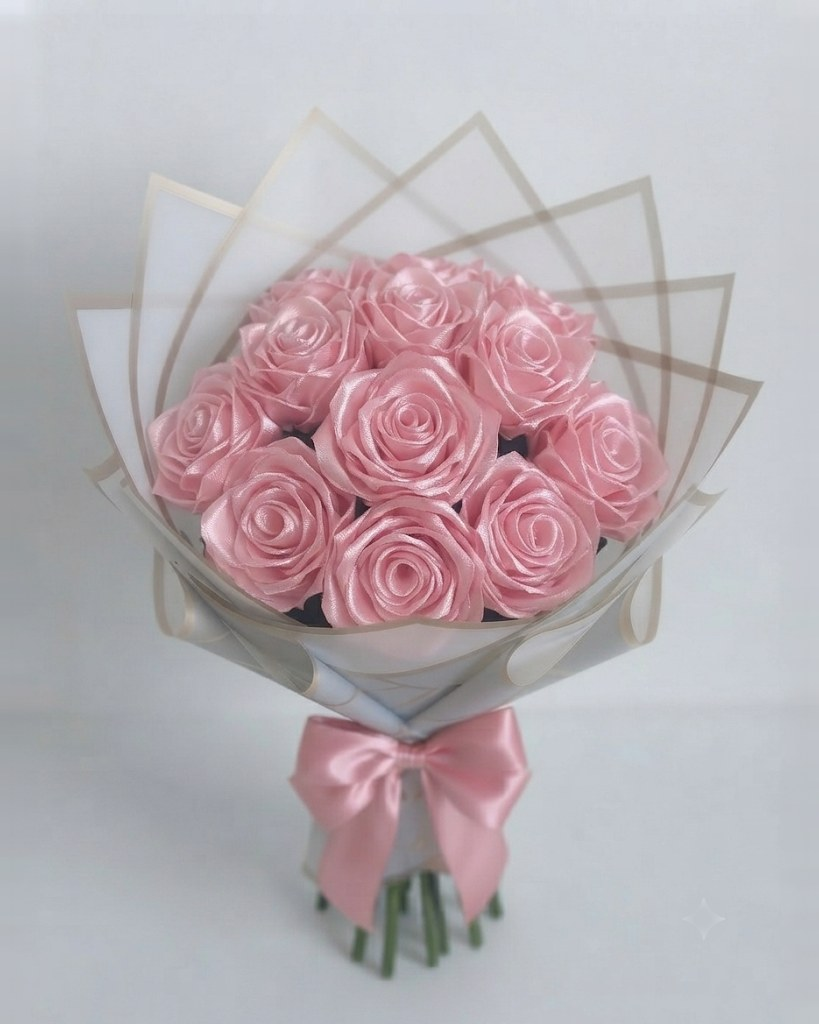
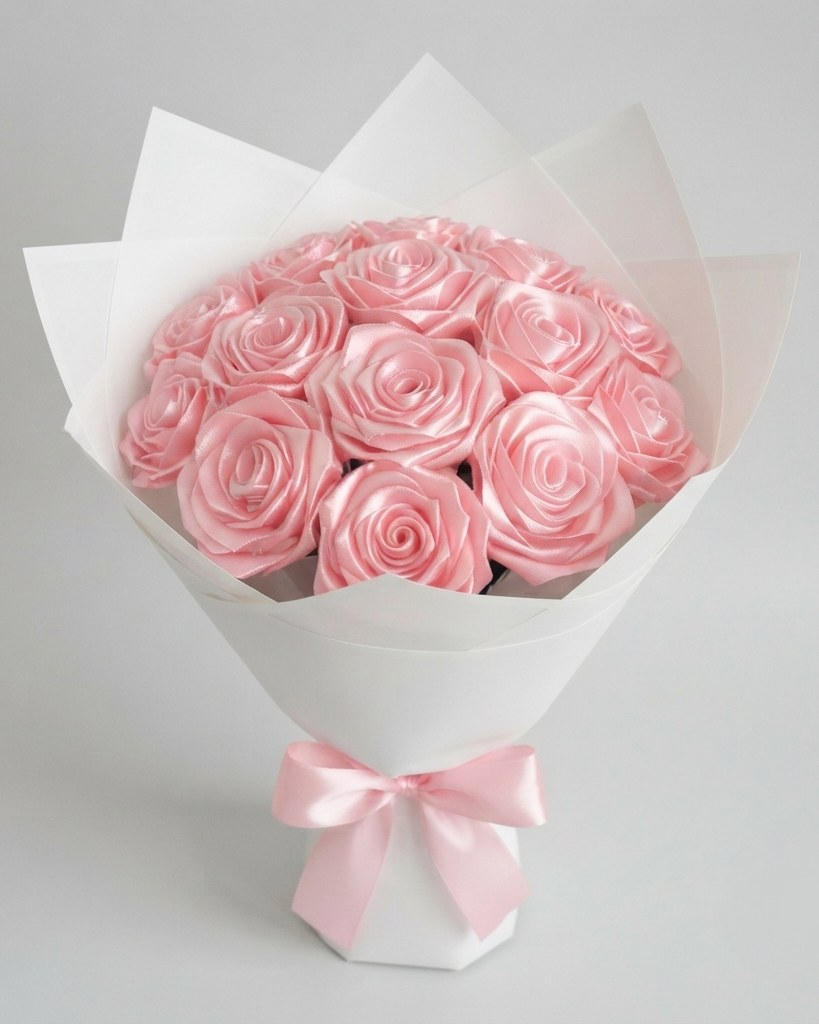
Pink 13-rose photo in white wrap; earlier one moves to 10
Claude-Session: https://claude.ai/code/session_01GvQGKs82VGAi27JdspmeE6

diff --git a/about.html b/about.html
@@ -6,7 +6,7 @@
 <link rel="preconnect" href="https://fonts.googleapis.com">
 <link rel="preconnect" href="https://fonts.gstatic.com" crossorigin>
 <link href="https://fonts.googleapis.com/css2?family=Great+Vibes&family=Playfair+Display:wght@500;600;700&family=Poppins:wght@400;500;600&display=swap" rel="stylesheet">
-<link rel="stylesheet" href="assets/css/styles.css?v=202610231333">
+<link rel="stylesheet" href="assets/css/styles.css?v=202610231335">
 <link rel="icon" href="assets/favicon.svg" type="image/svg+xml">
 <title>About Our Flowers | Fleure</title>
 <meta name="description" content="Handmade bouquets shaped by hand from soft pipe cleaners and satin ribbon, made slowly in a small studio.">
@@ -53,9 +53,9 @@
     <a class="btn btn-outline" href="custom.html">Place a custom order</a>
   </div>
 </main>
-<script src="assets/js/data.js?v=202610231333"></script>
-<script src="assets/js/bouquet.js?v=202610231333"></script>
-<script src="assets/js/app.js?v=202610231333"></script>
+<script src="assets/js/data.js?v=202610231335"></script>
+<script src="assets/js/bouquet.js?v=202610231335"></script>
+<script src="assets/js/app.js?v=202610231335"></script>
 <script>document.getElementById("arrange-img").src = productImage(byId("sunflower-rose-tulip"));
 document.querySelectorAll("[data-icon]").forEach((el) => (el.innerHTML = ICONS[el.dataset.icon]));</script>
 </body>

diff --git a/contact.html b/contact.html
@@ -6,7 +6,7 @@
 <link rel="preconnect" href="https://fonts.googleapis.com">
 <link rel="preconnect" href="https://fonts.gstatic.com" crossorigin>
 <link href="https://fonts.googleapis.com/css2?family=Great+Vibes&family=Playfair+Display:wght@500;600;700&family=Poppins:wght@400;500;600&display=swap" rel="stylesheet">
-<link rel="stylesheet" href="assets/css/styles.css?v=202610231333">
+<link rel="stylesheet" href="assets/css/styles.css?v=202610231335">
 <link rel="icon" href="assets/favicon.svg" type="image/svg+xml">
 <title>Contact | Fleure</title>
 <meta name="description" content="Have a question, an idea or a custom request? Reach us on WhatsApp.">
@@ -35,9 +35,9 @@
   </section>
   <div class="thanks"><span class="script">Thank you</span>for supporting handmade</div>
 </main>
-<script src="assets/js/data.js?v=202610231333"></script>
-<script src="assets/js/bouquet.js?v=202610231333"></script>
-<script src="assets/js/app.js?v=202610231333"></script>
+<script src="assets/js/data.js?v=202610231335"></script>
+<script src="assets/js/bouquet.js?v=202610231335"></script>
+<script src="assets/js/app.js?v=202610231335"></script>
 <script>
   document.querySelectorAll("[data-wa]").forEach((a) => (a.href = waLink(a.dataset.wa)));
   document.querySelectorAll("[data-icon]").forEach((el) => (el.innerHTML = ICONS[el.dataset.icon]));

diff --git a/index.html b/index.html
@@ -6,7 +6,7 @@
 <link rel="preconnect" href="https://fonts.googleapis.com">
 <link rel="preconnect" href="https://fonts.gstatic.com" crossorigin>
 <link href="https://fonts.googleapis.com/css2?family=Great+Vibes&family=Playfair+Display:wght@500;600;700&family=Poppins:wght@400;500;600&display=swap" rel="stylesheet">
-<link rel="stylesheet" href="assets/css/styles.css?v=202610231333">
+<link rel="stylesheet" href="assets/css/styles.css?v=202610231335">
 <link rel="icon" href="assets/favicon.svg" type="image/svg+xml">
 <title>Fleure | Handmade Flower Bouquets</title>
 <meta name="description" content="Handmade forever flowers that never wilt: pipe-cleaner and satin ribbon bouquets, made to order. Order on WhatsApp.">
@@ -72,9 +72,9 @@
     </div>
   </section>
 </main>
-<script src="assets/js/data.js?v=202610231333"></script>
-<script src="assets/js/bouquet.js?v=202610231333"></script>
-<script src="assets/js/app.js?v=202610231333"></script>
+<script src="assets/js/data.js?v=202610231335"></script>
+<script src="assets/js/bouquet.js?v=202610231335"></script>
+<script src="assets/js/app.js?v=202610231335"></script>
 <script>
   document.querySelectorAll("[data-shop-name]").forEach((el) => (el.textContent = SHOP.name));
   document.querySelectorAll("[data-wa]").forEach((a) => (a.href = waLink(a.dataset.wa)));

diff --git a/how-to-order.html b/how-to-order.html
@@ -6,7 +6,7 @@
 <link rel="preconnect" href="https://fonts.googleapis.com">
 <link rel="preconnect" href="https://fonts.gstatic.com" crossorigin>
 <link href="https://fonts.googleapis.com/css2?family=Great+Vibes&family=Playfair+Display:wght@500;600;700&family=Poppins:wght@400;500;600&display=swap" rel="stylesheet">
-<link rel="stylesheet" href="assets/css/styles.css?v=202610231333">
+<link rel="stylesheet" href="assets/css/styles.css?v=202610231335">
 <link rel="icon" href="assets/favicon.svg" type="image/svg+xml">
 <title>How to Order + FAQ | Fleure</title>
 <meta name="description" content="How to order a handmade bouquet on WhatsApp, plus answers about flower care, delivery and payment.">
@@ -41,9 +41,9 @@
     </div>
   </section>
 </main>
-<script src="assets/js/data.js?v=202610231333"></script>
-<script src="assets/js/bouquet.js?v=202610231333"></script>
-<script src="assets/js/app.js?v=202610231333"></script>
+<script src="assets/js/data.js?v=202610231335"></script>
+<script src="assets/js/bouquet.js?v=202610231335"></script>
+<script src="assets/js/app.js?v=202610231335"></script>
 <script>
   document.querySelectorAll("[data-wa]").forEach((a) => (a.href = waLink(a.dataset.wa)));
   document.querySelectorAll("[data-icon]").forEach((el) => (el.innerHTML = ICONS[el.dataset.icon]));

diff --git a/custom.html b/custom.html
@@ -6,7 +6,7 @@
 <link rel="preconnect" href="https://fonts.googleapis.com">
 <link rel="preconnect" href="https://fonts.gstatic.com" crossorigin>
 <link href="https://fonts.googleapis.com/css2?family=Great+Vibes&family=Playfair+Display:wght@500;600;700&family=Poppins:wght@400;500;600&display=swap" rel="stylesheet">
-<link rel="stylesheet" href="assets/css/styles.css?v=202610231333">
+<link rel="stylesheet" href="assets/css/styles.css?v=202610231335">
 <link rel="icon" href="assets/favicon.svg" type="image/svg+xml">
 <title>Build Your Own Bouquet | Fleure</title>
 <meta name="description" content="Create a custom handmade bouquet: choose flowers, colours, wrap and a gift note, then send your order on WhatsApp.">
@@ -55,9 +55,9 @@
     </form>
   </section>
 </main>
-<script src="assets/js/data.js?v=202610231333"></script>
-<script src="assets/js/bouquet.js?v=202610231333"></script>
-<script src="assets/js/app.js?v=202610231333"></script>
+<script src="assets/js/data.js?v=202610231335"></script>
+<script src="assets/js/bouquet.js?v=202610231335"></script>
+<script src="assets/js/app.js?v=202610231335"></script>
 <script>
   document.querySelectorAll("[data-wa]").forEach((a) => (a.href = waLink(a.dataset.wa)));
   document.getElementById("occasions").innerHTML = [

diff --git a/shop.html b/shop.html
@@ -6,7 +6,7 @@
 <link rel="preconnect" href="https://fonts.googleapis.com">
 <link rel="preconnect" href="https://fonts.gstatic.com" crossorigin>
 <link href="https://fonts.googleapis.com/css2?family=Great+Vibes&family=Playfair+Display:wght@500;600;700&family=Poppins:wght@400;500;600&display=swap" rel="stylesheet">
-<link rel="stylesheet" href="assets/css/styles.css?v=202610231333">
+<link rel="stylesheet" href="assets/css/styles.css?v=202610231335">
 <link rel="icon" href="assets/favicon.svg" type="image/svg+xml">
 <title>Shop Bouquets | Fleure</title>
 <meta name="description" content="Single flower, double flower and combination bouquets from ₹89, satin ribbon roses and special occasion bouquets. Handmade to order.">
@@ -22,9 +22,9 @@
   </div>
   <div id="rows"></div>
 </main>
-<script src="assets/js/data.js?v=202610231333"></script>
-<script src="assets/js/bouquet.js?v=202610231333"></script>
-<script src="assets/js/app.js?v=202610231333"></script>
+<script src="assets/js/data.js?v=202610231335"></script>
+<script src="assets/js/bouquet.js?v=202610231335"></script>
+<script src="assets/js/app.js?v=202610231335"></script>
 <script>
   const rows = document.getElementById("rows");
   const filters = document.getElementById("filters");

diff --git a/product.html b/product.html
@@ -6,7 +6,7 @@
 <link rel="preconnect" href="https://fonts.googleapis.com">
 <link rel="preconnect" href="https://fonts.gstatic.com" crossorigin>
 <link href="https://fonts.googleapis.com/css2?family=Great+Vibes&family=Playfair+Display:wght@500;600;700&family=Poppins:wght@400;500;600&display=swap" rel="stylesheet">
-<link rel="stylesheet" href="assets/css/styles.css?v=202610231333">
+<link rel="stylesheet" href="assets/css/styles.css?v=202610231335">
 <link rel="icon" href="assets/favicon.svg" type="image/svg+xml">
 <title>Bouquet | Fleure</title>
 <meta name="description" content="Handmade bouquet, made to order. Choose colours and wrap, and order on WhatsApp.">
@@ -19,9 +19,9 @@
     <div class="product-grid" id="related"></div>
   </section>
 </main>
-<script src="assets/js/data.js?v=202610231333"></script>
-<script src="assets/js/bouquet.js?v=202610231333"></script>
-<script src="assets/js/app.js?v=202610231333"></script>
+<script src="assets/js/data.js?v=202610231335"></script>
+<script src="assets/js/bouquet.js?v=202610231335"></script>
+<script src="assets/js/app.js?v=202610231335"></script>
 <script>
   const params = new URLSearchParams(location.search);
   const p = byId(params.get("id"));

diff --git a/assets/js/app.js b/assets/js/app.js
@@ -193,7 +193,7 @@
   // Photos reuse this script's ?v= stamp so browsers fetch new copies after each update.
   const version = new URL(document.currentScript.src).searchParams.get("v") || "";
   // Real photos by rose colour: folder under assets/sizes and the counts photographed in every wrap and finish, and single extra photos.
-  const SIZE_PHOTOS = { Red: { dir: "", counts: { min: 1, max: 30 } }, Pink: { dir: "pink/", counts: [1, 3], extra: ["black-plain-7", "black-plain-10", "black-plain-20", "white-plain-7", "white-plain-13", "white-plain-17", "white-plain-20"] }, White: { dir: "white/", counts: [1, 3] }, Black: { dir: "black/", counts: [1, 3] } };
+  const SIZE_PHOTOS = { Red: { dir: "", counts: { min: 1, max: 30 } }, Pink: { dir: "pink/", counts: [1, 3], extra: ["black-plain-7", "black-plain-10", "black-plain-20", "white-plain-7", "white-plain-10", "white-plain-13", "white-plain-17", "white-plain-20"] }, White: { dir: "white/", counts: [1, 3] }, Black: { dir: "black/", counts: [1, 3] } };
   const sizePhoto = (o) => {
     const set = o.kind === "ribbon" && o.ribbon === o.colours && SIZE_PHOTOS[o.colours];
     if (!set) return null;
